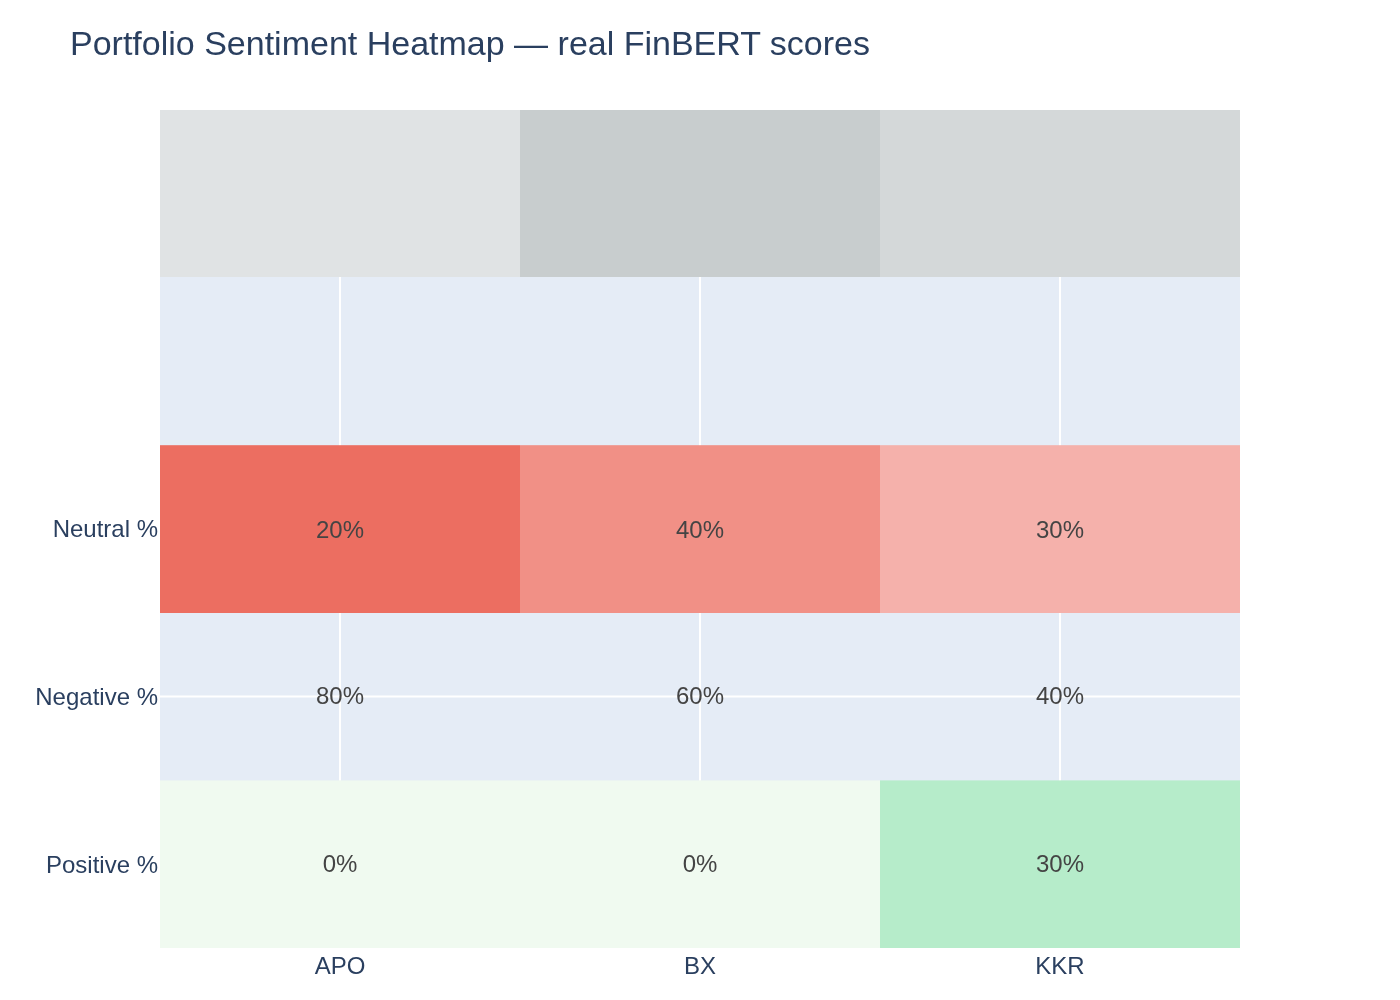
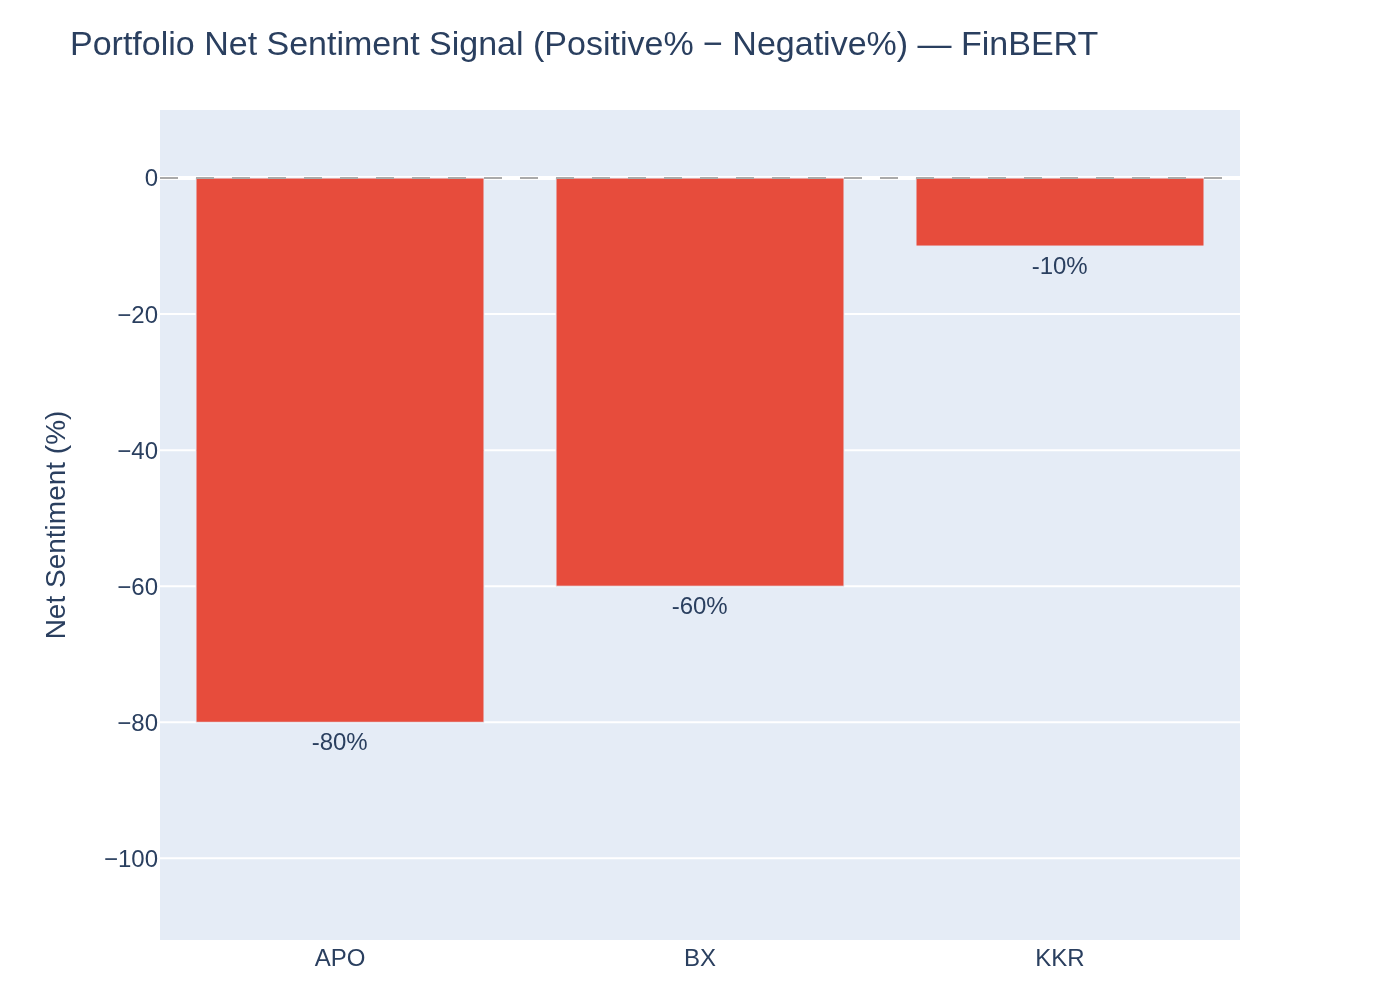
refactor: remove redundant pie chart, replace heatmap with net-sentiment bar, update README

diff --git a/scripts/generate_screenshots.py b/scripts/generate_screenshots.py
@@ -58,16 +58,18 @@ df = pd.DataFrame(rows)
 # -------------------------------------------------------------------
 # 1. Sentiment distribution pie  (real counts)
 # -------------------------------------------------------------------
-pie_df = df["label"].value_counts().reset_index()
-pie_df.columns = ["label", "count"]
-fig_pie = px.pie(
-    pie_df, names="label", values="count", color="label",
-    color_discrete_map=SENTIMENT_COLORS, hole=0.4,
-    title="Sentiment Distribution — BX / KKR / APO (30 real articles)",
+# 1. Sentiment by ticker (real counts) — replaces pie, primary view
+# -------------------------------------------------------------------
+ticker_df = df.groupby(["ticker", "label"]).size().reset_index(name="count")
+fig_tick = px.bar(
+    ticker_df, x="ticker", y="count", color="label",
+    color_discrete_map=SENTIMENT_COLORS, barmode="group",
+    title="Sentiment by Ticker — BX / KKR / APO (30 real articles)",
+    labels={"ticker": "Ticker", "count": "Articles"},
 )
-fig_pie.update_layout(margin=dict(t=55, b=10), height=380, width=560)
-write_image(fig_pie, OUT / "sentiment_pie.png", scale=2)
-print("Saved sentiment_pie.png")
+fig_tick.update_layout(height=380, width=580, margin=dict(t=55, b=10))
+write_image(fig_tick, OUT / "sentiment_by_ticker.png", scale=2)
+print("Saved sentiment_by_ticker.png")
 
 # -------------------------------------------------------------------
 # 2. Sentiment over time (real dates)
@@ -84,21 +86,7 @@ write_image(fig_time, OUT / "sentiment_timeline.png", scale=2)
 print("Saved sentiment_timeline.png")
 
 # -------------------------------------------------------------------
-# 3. Sentiment by ticker (real counts)
-# -------------------------------------------------------------------
-ticker_df = df.groupby(["ticker", "label"]).size().reset_index(name="count")
-fig_tick = px.bar(
-    ticker_df, x="ticker", y="count", color="label",
-    color_discrete_map=SENTIMENT_COLORS, barmode="group",
-    title="Sentiment by Ticker — BX / KKR / APO",
-    labels={"ticker": "Ticker", "count": "Articles"},
-)
-fig_tick.update_layout(height=380, width=560, margin=dict(t=55, b=10))
-write_image(fig_tick, OUT / "sentiment_by_ticker.png", scale=2)
-print("Saved sentiment_by_ticker.png")
-
-# -------------------------------------------------------------------
-# 4. Score distribution (real confidence scores)
+# 3. Score distribution (real confidence scores)
 # -------------------------------------------------------------------
 fig_box = go.Figure()
 for label, color in SENTIMENT_COLORS.items():
@@ -132,42 +120,31 @@ write_image(fig_ent, OUT / "top_entities.png", scale=2)
 print("Saved top_entities.png")
 
 # -------------------------------------------------------------------
-# 6. Portfolio sentiment heatmap (real FinBERT scores per ticker)
+# 6. Portfolio net-sentiment signal (positive% − negative% per ticker)
 # -------------------------------------------------------------------
 portfolio_tickers = sorted(df["ticker"].unique())
-pos_vals, neg_vals, neu_vals = [], [], []
+net_scores = []
 for tkr in portfolio_tickers:
     sub = df[df["ticker"] == tkr]
     total = len(sub)
-    pos_vals.append(round(100 * (sub["label"] == "positive").sum() / total, 1))
-    neg_vals.append(round(100 * (sub["label"] == "negative").sum() / total, 1))
-    neu_vals.append(round(100 * (sub["label"] == "neutral").sum() / total, 1))
+    pos_pct = 100 * (sub["label"] == "positive").sum() / total
+    neg_pct = 100 * (sub["label"] == "negative").sum() / total
+    net_scores.append(round(pos_pct - neg_pct, 1))
 
-fig_heat = go.Figure()
-fig_heat.add_trace(go.Heatmap(
-    z=[pos_vals], x=portfolio_tickers, y=["Positive %"],
-    colorscale=[[0, "#f0faf0"], [1, "#2ecc71"]],
-    zmin=0, zmax=100,
-    text=[[f"{v:.0f}%" for v in pos_vals]], texttemplate="%{text}",
-    showscale=False,
+bar_colors = [SENTIMENT_COLORS["positive"] if s >= 0 else SENTIMENT_COLORS["negative"] for s in net_scores]
+fig_heat = go.Figure(go.Bar(
+    x=portfolio_tickers,
+    y=net_scores,
+    marker_color=bar_colors,
+    text=[f"{s:+.0f}%" for s in net_scores],
+    textposition="outside",
 ))
-fig_heat.add_trace(go.Heatmap(
-    z=[neg_vals], x=portfolio_tickers, y=["Negative %"],
-    colorscale=[[0, "#fff5f5"], [1, "#e74c3c"]],
-    zmin=0, zmax=100,
-    text=[[f"{v:.0f}%" for v in neg_vals]], texttemplate="%{text}",
-    showscale=False,
-))
-fig_heat.add_trace(go.Heatmap(
-    z=[neu_vals], x=portfolio_tickers, y=["Neutral %"],
-    colorscale=[[0, "#f8f9fa"], [1, "#7f8c8d"]],
-    zmin=0, zmax=100,
-    text=[[f"{v:.0f}%" for v in neu_vals]], texttemplate="%{text}",
-    showscale=False,
-))
+fig_heat.add_hline(y=0, line_dash="dash", line_color="#aaa", line_width=1)
 fig_heat.update_layout(
-    title="Portfolio Sentiment Heatmap — real FinBERT scores",
-    height=320, width=720, margin=dict(t=55, b=10),
+    title="Portfolio Net Sentiment Signal (Positive% − Negative%) — FinBERT",
+    yaxis_title="Net Sentiment (%)",
+    yaxis=dict(range=[min(net_scores) * 1.4, max(max(net_scores) * 1.4, 10)]),
+    height=360, width=560, margin=dict(t=55, b=30),
 )
 write_image(fig_heat, OUT / "portfolio_heatmap.png", scale=2)
 print("Saved portfolio_heatmap.png")

diff --git a/README.md b/README.md
@@ -63,13 +63,13 @@ flowchart LR
 
 ## Screenshots
 
-| Sentiment Distribution | Sentiment Over Time | Score Distribution |
+| Sentiment by Ticker | Sentiment Over Time | Score Distribution |
 |:---:|:---:|:---:|
-| ![pie](docs/screenshots/sentiment_pie.png) | ![timeline](docs/screenshots/sentiment_timeline.png) | ![dist](docs/screenshots/score_distribution.png) |
+| ![ticker](docs/screenshots/sentiment_by_ticker.png) | ![timeline](docs/screenshots/sentiment_timeline.png) | ![dist](docs/screenshots/score_distribution.png) |
 
-| By Ticker | Portfolio Heatmap | LLM-Extracted KPIs |
+| Top Named Entities | Portfolio Net Sentiment | LLM-Extracted KPIs |
 |:---:|:---:|:---:|
-| ![ticker](docs/screenshots/sentiment_by_ticker.png) | ![heatmap](docs/screenshots/portfolio_heatmap.png) | ![edgar](docs/screenshots/edgar_kpi_extraction.png) |
+| ![ner](docs/screenshots/top_entities.png) | ![heatmap](docs/screenshots/portfolio_heatmap.png) | ![edgar](docs/screenshots/edgar_kpi_extraction.png) |
 
 ---
 
@@ -131,7 +131,7 @@ All files in `examples/data/` are generated from live APIs — no mocks. Refresh
 | `edgar_filings.json` | 4 real 8-K filings (BX Q4 2025, KKR Q4 2025, KKR/Arctos) |
 | `llm_extractions.json` | Qwen2.5-72B structured extracts per filing |
 | `investment_briefings.json` | Qwen2.5-72B PM briefings for BX / KKR / APO |
-| `top_entities.json` | Top 20 NER entities by mention count |
+| `top_entities.json` | Top NER entities by mention count (organisations, persons, locations) |
 
 **Sample — KKR / Arctos acquisition extract (`llm_extractions.json`)**
 
